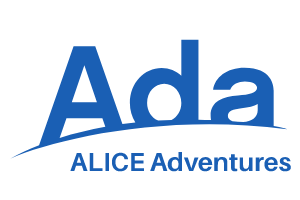
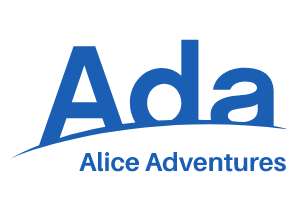
Improve image and presentation

Changed region(s): [[0.24, 0.75, 0.99, 0.87]]

diff --git a/README.md b/README.md
@@ -7,7 +7,7 @@
 
 <img src="Alice_Adventures.png" width="200" />
 
-# ALICE
+# Alice
 
 > *Adventures for Learning and Inspiring Coding Excellence*
 
@@ -39,30 +39,12 @@ With Alice, you can collaborate in a variety of ways:
      [Euler Tools](https://github.com/rocher/euler_tools) has been created to
      solve Project Euler problems.
 
----
-## Glossary
-
-   * **CLIs** : Command Line Interfaces (CLIs) are the most basic interfaces
-     that a Problem can implement to find the solution and show the answer.
-     Users can indirectly influence the algorithm by passing arguments to the
-     implemented algorithm.
-   * **GUIs** : Graphical User Interfaces (GUIs) are the most advanced
-     interfaces a Problem can implement to find the solution, give the answer
-     and to draw interesting stuff. Users can interact with a problem by
-     setting or changing some algorithm parameters.
-   * **Plotter** : Interface used by a Program to create graphical (mostly
-     mathematical) representations.
-   * **Problem** : Element from a Problem Source implemented using the
-    Command Line Interface (CLI), the Graphical User Interface (GUI) or any
-    other interface available in ALICE.
-   * **Problem Source** : Collection of problems or programming challenges
-     that can be implemented using one of the currently available Runners. Currently, only [Project Euler](https://projecteuler.net) is supported.
-   * **Runner** : Software artifact used to create a program that can show a
-     Problem solution. Runners usually implement only one of the interfaces
-     that problems can implement (CLI or GUI), but not both. Runners are
-     specifically designed to work with a Problem Source. For example, a GUI
-     Runner for Project Euler problems is different from a Runner for
-     CodinGame problems. This may change in the future.
+Alice is still in the early stages of development, and things are likely to
+change as we continue to refine and improve the framework. While Alice is
+still a work in progress, it is already starting to take shape as a robust
+and usable tool for exploring the challenges of the aforementioned _Problem
+Sources_. For example, to solve a Project Euler problem, there are two
+interfaces you can implement: CLI, a basic Command Line Interface; and GUI, a generic Graphical User Interface to create visual representations.
 
 ---
 ## TODO List
@@ -102,6 +84,31 @@ With Alice, you can collaborate in a variety of ways:
 ### Long term
    * [ ] Add a user interface to interact with Alice in a similar way one can
      do in CodinGame.
+
+---
+## Glossary
+
+   * **CLIs** : Command Line Interfaces (CLIs) are the most basic interfaces
+     that a Problem can implement to find the solution and show the answer.
+     Users can indirectly influence the algorithm by passing arguments to the
+     implemented algorithm.
+   * **GUIs** : Graphical User Interfaces (GUIs) are the most advanced
+     interfaces a Problem can implement to find the solution, give the answer
+     and to draw interesting stuff. Users can interact with a problem by
+     setting or changing some algorithm parameters.
+   * **Plotter** : Interface used by a Program to create graphical (mostly
+     mathematical) representations.
+   * **Problem** : Element from a Problem Source implemented using the
+    Command Line Interface (CLI), the Graphical User Interface (GUI) or any
+    other interface available in ALICE.
+   * **Problem Source** : Collection of problems or programming challenges
+     that can be implemented using one of the currently available Runners. Currently, only [Project Euler](https://projecteuler.net) is supported.
+   * **Runner** : Software artifact used to create a program that can show a
+     Problem solution. Runners usually implement only one of the interfaces
+     that problems can implement (CLI or GUI), but not both. Runners are
+     specifically designed to work with a Problem Source. For example, a GUI
+     Runner for Project Euler problems is different from a Runner for
+     CodinGame problems. This may change in the future.
 
 ---
 ## License
